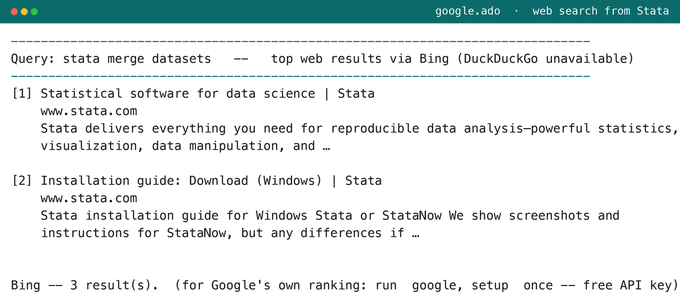
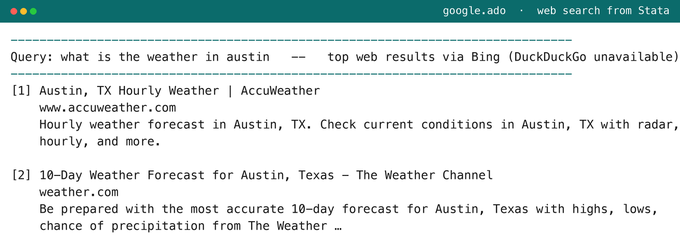
google.ado v4.1: clickable {browse} result links + if/in-safe search terms

Changed region(s): [[0.0, 0.2846, 1.0, 0.7967], [0.0, 0.0, 1.0, 0.2561], [0.0, 0.8252, 1.0, 0.9675]]

diff --git a/index.html b/index.html
@@ -238,7 +238,7 @@
         </a>
         <a class="wipcard" href="https://drive.google.com/drive/folders/15Ak5pKCxmXntJM7wwXScGQi_TvEL0Mn3?usp=sharing" target="_blank" rel="noopener">
           <img src="thumbs/google.png" alt="google.ado web search results inside the Stata Results window" loading="lazy">
-          <div class="wipcap"><b>google.ado</b> &mdash; search the web from Stata: top results right in the Results window (official Google API, or DuckDuckGo/Bing with zero setup), plus an AI-Overview-free browser mode.</div>
+          <div class="wipcap"><b>google.ado</b> &mdash; search the web from Stata: top results land right in the Results window as clickable links (official Google API, or DuckDuckGo/Bing with zero setup), plus an AI-Overview-free browser mode.</div>
         </a>
       </div>
       <div class="lbl">More local utilities</div>
